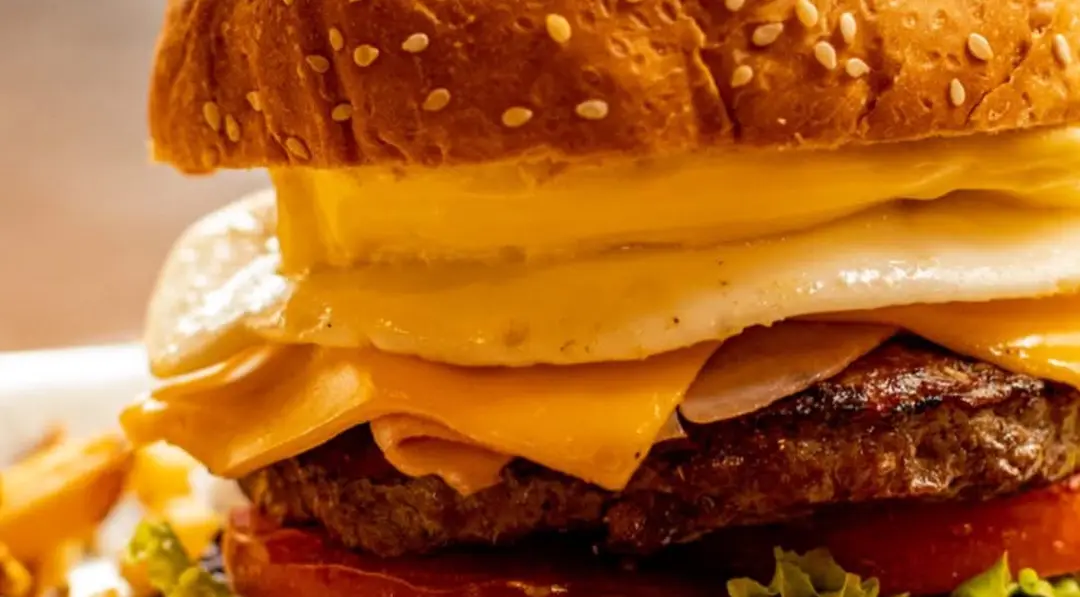
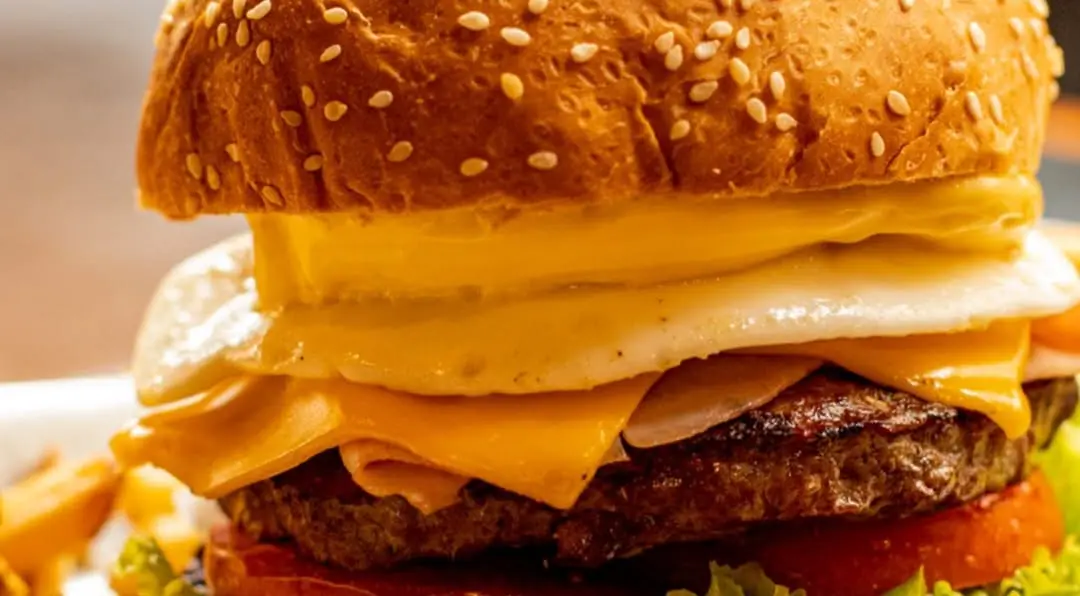
Irish Town: arreglos de revisión 3 (diana, precios, hero)
Claude-Session: https://claude.ai/code/session_018KHp4manv8XJXv5DbtuK3H

diff --git a/js/irish.js b/js/irish.js
@@ -88,7 +88,7 @@ const PAGINAS = [
 const COLS2 = new Set(['salsas', 'porrones', 'gin', 'whiskys', 'americanos', 'vinos', 'espumantes', 'sin-alcohol']);
 
 function precioTxt(p, ctx) {
-  if (p.variantes?.length) return p.variantes.filter(v => v.precio != null).map(v => `<span class="nw">${esc(v.nombre)} ${plata(v.precio)}</span>`).join(' · ');
+  if (p.variantes?.length) return p.variantes.filter(v => v.precio != null).map(v => `<span class="nw">${esc(v.nombre)} ${plata(v.precio)}</span>`).join('<span class="sep"> · </span>');
   return esc(ctx.money(p.precio) ?? 'Consultar');
 }
 const template = (p, ctx) => `
@@ -215,6 +215,8 @@ let bullE, bull;
 let tiros = 0, sumados = 0, ocupado = false, item = null;
 const cuenta = () => $('#cuenta').textContent = `${tiros} ${tiros === 1 ? 'tiro' : 'tiros'} · ${sumados} ${sumados === 1 ? 'sumado' : 'sumados'}`;
 function cerrarPos() { pos.classList.remove('on'); }
+const invita = $('#invita');
+function avisoDiana(t) { invita.textContent = t; caja.classList.add('aviso'); clearTimeout(avisoDiana.t); avisoDiana.t = setTimeout(() => caja.classList.remove('aviso'), 1600); }
 function resultado(x, y) {
   const r = Math.hypot(x, y); let a = Math.atan2(x, -y); if (a < 0) a += 2 * Math.PI;
   const i = Math.round(a / (Math.PI / 10)) % 20, n = ORDEN[i];
@@ -226,7 +228,7 @@ function resultado(x, y) {
   return { tipo, item: ITEMS[(n - 1) % ITEMS.length], seg: segs[i] };
 }
 function tirar(px, py) {
-  if (ocupado || !ITEMS.length) return; ocupado = true; cerrarPos(); caja.classList.add('jugado'); $('#toast').classList.remove('on'); dardo.classList.remove('bajo');
+  if (ocupado || !ITEMS.length) return; ocupado = true; cerrarPos(); caja.classList.add('jugado'); caja.classList.remove('aviso'); dardo.classList.remove('bajo');
   const b = caja.getBoundingClientRect(), s = b.width / 240, jit = 7 * s;
   const tx = px + (Math.random() - .5) * jit * 2, ty = py + (Math.random() - .5) * jit * 2;
   const res = resultado((tx - b.left) / s - 120, (ty - b.top) / s - 120);
@@ -239,15 +241,19 @@ function tirar(px, py) {
     tiros++; cuenta();
     $$('.tablero__svg .hit').forEach(e => e.classList.remove('hit')); res.seg?.classList.add('hit');
     setTimeout(() => {
-      if (!res.item) { toast('Afuera. ¡Tirá otra!'); setTimeout(() => { if (!ocupado) dardo.style.opacity = 0; }, 700); ocupado = false; return; }
+      if (!res.item) { avisoDiana('Afuera. ¡Otra!'); setTimeout(() => { if (!ocupado) dardo.style.opacity = 0; }, 700); ocupado = false; return; }
       item = res.item;
       $('#posTiro').textContent = res.tipo;
       $('#posImg').src = `img/d-${item.f}.webp`; $('#posImg').alt = item.n;
       $('#posNom').textContent = item.n; $('#posDesc').textContent = item.d;
       $('#posPrecio').textContent = item.p != null ? plata(item.p) + item.sufijo : 'Consultar';
       $('#posSumar').disabled = !item.pedible;
-      const pr = pos.querySelector('.pos__in').getBoundingClientRect(), cx = pr.left + pr.width / 2, cy = pr.top + pr.height / 2;
-      dardo.classList.toggle('bajo', Math.hypot(tx - cx, ty - cy) < pr.width / 2 + 6);
+      const B = caja.getBoundingClientRect(), R0 = B.width / 2, rp = pos.offsetWidth / 2, maxO = Math.max(0, R0 - rp - 6);
+      let vx = (tx - B.left) - R0, vy = (ty - B.top) - R0; const L = Math.hypot(vx, vy);
+      if (L < 4) { vx = 0; vy = -1; } else { vx /= L; vy /= L; }
+      const ox = -vx * maxO, oy = -vy * maxO;
+      pos.style.setProperty('--ox', ox.toFixed(1) + 'px'); pos.style.setProperty('--oy', oy.toFixed(1) + 'px');
+      dardo.classList.toggle('bajo', Math.hypot((tx - B.left) - (R0 + ox), (ty - B.top) - (R0 + oy)) < rp + 4);
       pos.classList.add('on'); ocupado = false;
     }, reducido ? 0 : 420);
   };

diff --git a/css/irish.css b/css/irish.css
@@ -487,3 +487,36 @@ button{font:inherit;cursor:pointer;touch-action:manipulation}
   .pos__nom{font-size:19px;line-height:1.12;min-height:2.24em;max-height:none;display:-webkit-box;-webkit-line-clamp:2;-webkit-box-orient:vertical;overflow:hidden;align-items:initial}
 }
 @media (max-width:899px){.afiche{aspect-ratio:auto;padding:62px 20px}}
+
+/* ===== tercera vuelta del revisor ===== */
+.pos{--ox:0px;--oy:0px;width:60%!important;transform:translate(calc(-50% + var(--ox)),calc(-50% + var(--oy))) scale(.4) rotate(-30deg)}
+.pos.on{transform:translate(calc(-50% + var(--ox)),calc(-50% + var(--oy))) scale(1) rotate(-3deg)}
+.pos__in{padding:11% 12% 12%}
+.pos__desc{-webkit-line-clamp:2}
+.tablero__caja.aviso .tablero__invita{display:block;background:var(--negro);color:var(--espuma);animation:none}
+@media (max-width:520px){
+  .pos{width:74%!important}
+  .pos__in{padding:12% 11% 12%;gap:2px}
+  .pos__tiro{font-size:12px}
+  .pos__img{width:56px}
+  .pos__nom{font-size:17px}
+  .pos__precio{font-size:17px}
+  .pos .btn-pinta--chico{padding:0 12px;font-size:15px}
+  .pos .btn-trenza{font-size:15px}
+  .pos__btns{gap:10px}
+}
+@media (max-width:767px){
+  .carta__kit .it__p--doble .nw{display:block}
+  .carta__kit .it__p--doble .sep{display:none}
+  .llegar__tel .nw{display:block}
+  .carta__paginas,.carta__secciones{-webkit-mask:linear-gradient(90deg,#000 82%,transparent);mask:linear-gradient(90deg,#000 82%,transparent);padding-right:40px}
+  .ha .ctas{justify-content:center}
+  .musica{row-gap:56px}
+}
+@media (min-width:900px){
+  .happy__in{align-items:start}
+  .happy__rango{font-size:clamp(34px,3.1vw,48px);white-space:nowrap}
+  .happy__col{padding-top:30px}
+}
+@media (min-width:768px){.ha__tabla{width:min(1120px,86vw,calc((100svh - 400px) * 2.083))}}
+@media (min-width:768px){.ha__tabla{width:min(1120px,86vw,calc((100svh - 430px) * 2.083))}}

diff --git a/index.html b/index.html
@@ -28,7 +28,7 @@ if(!matchMedia('(prefers-reduced-motion: reduce)').matches)d.classList.add('con-
 <link rel="preload" href="img/burger-h.webp" as="image" media="(min-width:768px)">
 <link rel="stylesheet" href="css/fuentes.css?v=1">
 <link rel="stylesheet" href="kit/kit.css?v=1">
-<link rel="stylesheet" href="css/irish.css?v=19">
+<link rel="stylesheet" href="css/irish.css?v=21">
 </head>
 <body>
 
@@ -272,6 +272,6 @@ if(!matchMedia('(prefers-reduced-motion: reduce)').matches)d.classList.add('con-
 
 <link rel="stylesheet" href="vendor/leaflet/leaflet.css">
 <script src="vendor/leaflet/leaflet.js" defer></script>
-<script type="module" src="js/irish.js?v=15"></script>
+<script type="module" src="js/irish.js?v=16"></script>
 </body>
 </html>
